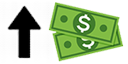
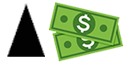
Fix filtros + cambio iconos

Changed region(s): [[0.0312, 0.0625, 0.375, 0.9375]]

diff --git a/src/components/searchResults/searchResults.jsx b/src/components/searchResults/searchResults.jsx
@@ -28,12 +28,8 @@ class SearchResults extends React.Component {
 	
 	
 	
-	
-	componentDidMount() {
-		
-		
-		
-	};
+	// componentDidMount() {
+	// };
 	
 	
 	
@@ -42,12 +38,12 @@ class SearchResults extends React.Component {
 		this.setState({ sort: tipo });
 		
 		
-		axios.get( getUrl(`/product/get?title=u&sort=${tipo}`) ).then( (res) => {
+		axios.get( getUrl(`/product/get?title=${this.props.productSearchResults?.keywords}&sort=${tipo}`) ).then( (res) => {
 			
 			this.setState({ productList: res.data });
 			
 			rdx_productSearchResults({
-				keywords: this.props.keywords,
+				keywords: this.props.productSearchResults.keywords,
 				data: res.data
 			});
 			
@@ -62,7 +58,7 @@ class SearchResults extends React.Component {
 	
 	componentDidUpdate() {
 		this.render();
-	}
+	};
 	
 	
 	pulsaResultado(productData) {
